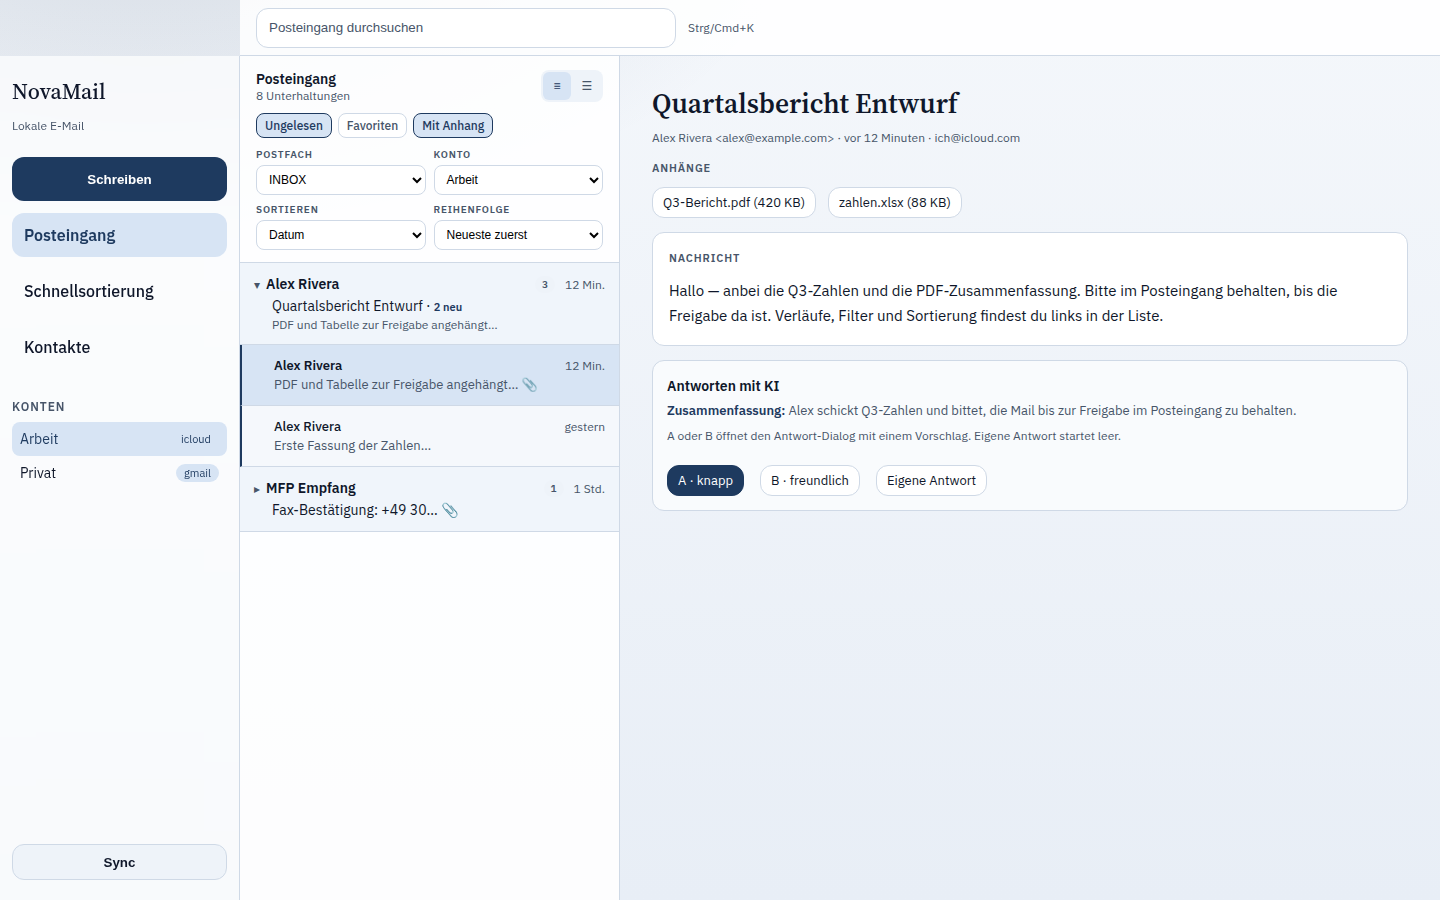
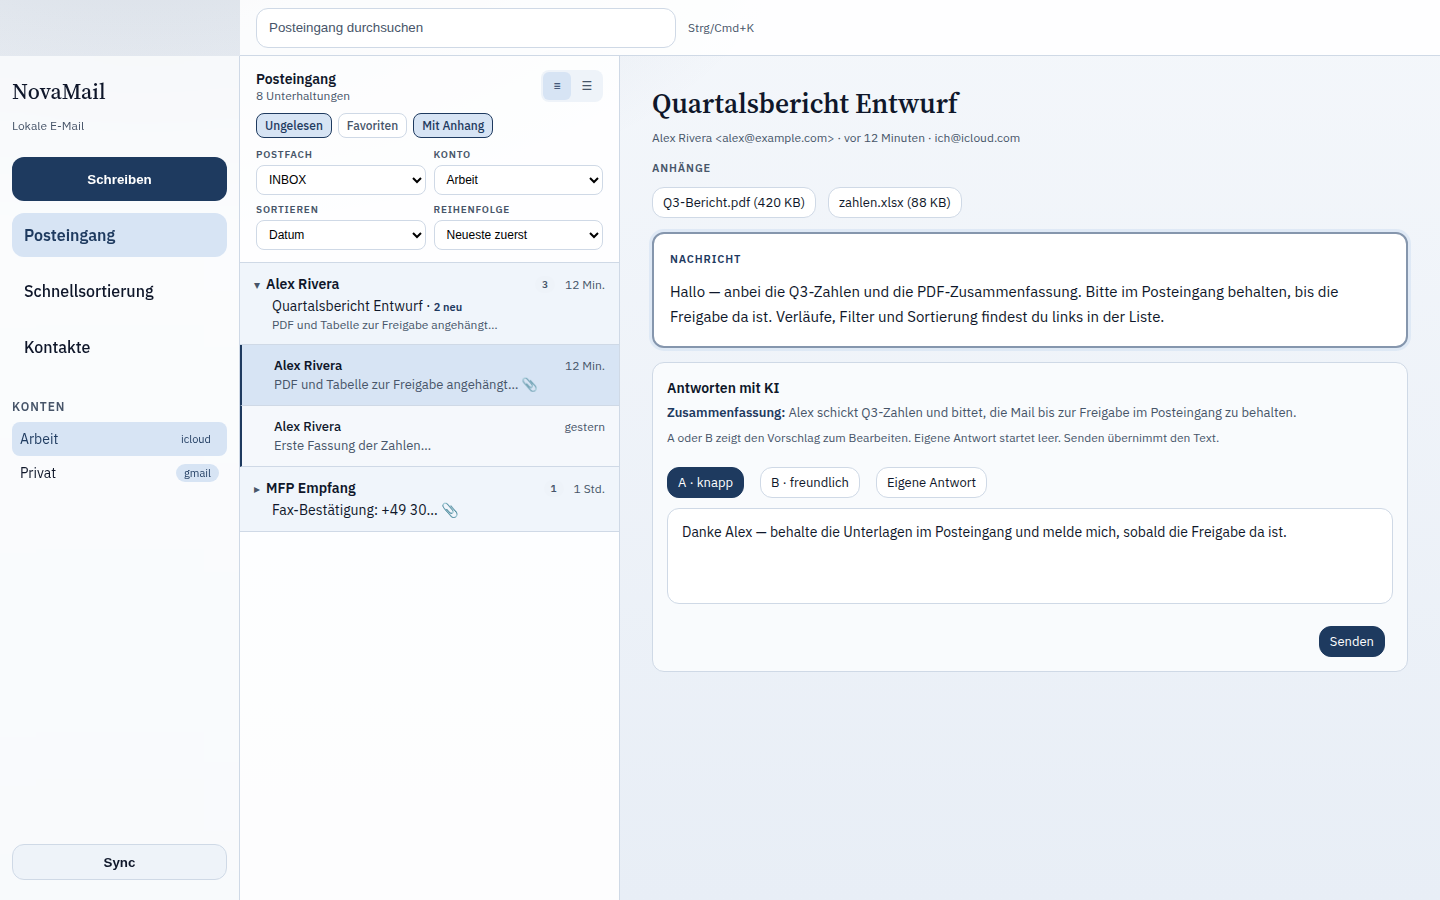
feat(ui): inline KI-Antwort bearbeiten und senden
Originalmail mit leichtem blauem Rahmen; Variante A als Default,
B wechselt den Text im editierbaren Feld, Senden verschickt direkt.

Changed region(s): [[0.4688, 0.28, 0.9688, 0.4978], [0.4688, 0.5289, 0.9062, 0.6222], [0.9062, 0.6844, 0.9688, 0.7467]]

diff --git a/apps/desktop/src/features/mail/ReadingPane.tsx b/apps/desktop/src/features/mail/ReadingPane.tsx
@@ -1,4 +1,4 @@
-import { useEffect, useState } from "react";
+import { useEffect, useRef, useState } from "react";
 import { open as openPath } from "@tauri-apps/plugin-shell";
 import { Reply, Star, Forward, Sparkles, Paperclip } from "lucide-react";
 import { Button, EmptyState, IconButton } from "@novamail/ui";
@@ -9,12 +9,14 @@ import { useT } from "@/shared/i18n/useT";
 import { displayName, formatRelative } from "@/shared/lib/format";
 import { useUiStore } from "@/shared/store/uiStore";
 
+type ReplyVariant = "a" | "b" | "own";
+
 interface ReadingPaneProps {
   message?: MessageDetailDto | null;
   onReply: () => void;
   onForward?: () => void;
   onToggleStar: () => void;
-  onUseSuggestedReply?: (suggestion: string) => void;
+  onReplySent?: () => void;
 }
 
 export function ReadingPane({
@@ -22,20 +24,26 @@ export function ReadingPane({
   onReply,
   onForward,
   onToggleStar,
-  onUseSuggestedReply,
+  onReplySent,
 }: ReadingPaneProps) {
   const t = useT();
   const locale = useUiStore((s) => s.locale);
   const [summary, setSummary] = useState<string | null>(null);
   const [variantA, setVariantA] = useState<string | null>(null);
   const [variantB, setVariantB] = useState<string | null>(null);
+  const [activeVariant, setActiveVariant] = useState<ReplyVariant>("a");
+  const [draft, setDraft] = useState("");
   const [aiBusy, setAiBusy] = useState(false);
+  const [sendBusy, setSendBusy] = useState(false);
   const [aiError, setAiError] = useState<string | null>(null);
+  const draftRef = useRef<HTMLTextAreaElement>(null);
 
   useEffect(() => {
     setSummary(null);
     setVariantA(null);
     setVariantB(null);
+    setActiveVariant("a");
+    setDraft("");
     setAiError(null);
     const id = message?.summary.id;
     if (!id) return;
@@ -45,8 +53,14 @@ export function ReadingPane({
       .then((insights) => {
         if (cancelled) return;
         if (insights.summary) setSummary(insights.summary);
-        setVariantA(insights.replyA ?? insights.replySuggestion ?? null);
-        setVariantB(insights.replyB ?? null);
+        const a = insights.replyA ?? insights.replySuggestion ?? null;
+        const b = insights.replyB ?? null;
+        setVariantA(a);
+        setVariantB(b);
+        if (a) {
+          setActiveVariant("a");
+          setDraft(a);
+        }
       })
       .catch(() => undefined);
     return () => {
@@ -105,23 +119,55 @@ export function ReadingPane({
     }
   }
 
-  async function openVariant(which: "a" | "b") {
+  async function selectVariant(which: "a" | "b") {
     const variants = await ensureVariants();
     if (!variants) return;
-    const text = which === "a" ? variants.a : variants.b;
-    if (onUseSuggestedReply) {
-      onUseSuggestedReply(text);
-      return;
-    }
-    onReply();
+    setActiveVariant(which);
+    setDraft(which === "a" ? variants.a : variants.b);
+    requestAnimationFrame(() => draftRef.current?.focus());
   }
 
-  function openOwnReply() {
-    if (onUseSuggestedReply) {
-      onUseSuggestedReply("");
+  function selectOwn() {
+    setActiveVariant("own");
+    setDraft("");
+    requestAnimationFrame(() => draftRef.current?.focus());
+  }
+
+  async function handleSendReply() {
+    const text = draft.trim();
+    if (!text) {
+      setAiError(t("replyDraftEmpty"));
       return;
     }
-    onReply();
+    setSendBusy(true);
+    setAiError(null);
+    try {
+      const subject = current.summary.subject.startsWith("Re:")
+        ? current.summary.subject
+        : `Re: ${current.summary.subject || t("noSubject")}`;
+      await api.messagesSend({
+        accountId: current.summary.accountId,
+        to: [{ email: current.summary.from.email, name: current.summary.from.name }],
+        cc: [],
+        bcc: [],
+        subject,
+        bodyText: text,
+        bodyHtml: null,
+        inReplyTo: current.messageId ?? null,
+        references: [
+          ...current.references,
+          current.messageId ?? "",
+        ].filter(Boolean),
+        attachments: [],
+      });
+      onReplySent?.();
+      if (activeVariant === "a") setVariantA(text);
+      if (activeVariant === "b") setVariantB(text);
+    } catch (error) {
+      setAiError((error as AppError).message || t("sendFailed"));
+    } finally {
+      setSendBusy(false);
+    }
   }
 
   async function openAttachment(id: string) {
@@ -153,7 +199,7 @@ export function ReadingPane({
                 }
               />
             </IconButton>
-            <IconButton label={t("reply")} onClick={openOwnReply}>
+            <IconButton label={t("reply")} onClick={onReply}>
               <Reply />
             </IconButton>
             <IconButton label={t("forward")} onClick={onForward}>
@@ -206,9 +252,9 @@ export function ReadingPane({
 
         <section
           aria-label={t("messageBody")}
-          className="rounded-[var(--nova-radius-md)] border border-[var(--nova-border)] bg-[var(--nova-surface)] px-5 py-5 shadow-[0_1px_0_color-mix(in_srgb,var(--nova-ink)_5%,transparent)]"
+          className="rounded-[var(--nova-radius-md)] border-2 border-[color-mix(in_srgb,var(--nova-accent)_42%,var(--nova-border))] bg-[var(--nova-surface)] px-5 py-5 shadow-[0_0_0_3px_color-mix(in_srgb,var(--nova-accent-soft)_70%,transparent)]"
         >
-          <p className="mb-3 text-xs font-semibold uppercase tracking-wide text-[var(--nova-ink-muted)]">
+          <p className="mb-3 text-xs font-semibold uppercase tracking-wide text-[var(--nova-accent)]">
             {t("messageBody")}
           </p>
           {current.bodyHtml ? (
@@ -251,31 +297,53 @@ export function ReadingPane({
           <p className="mb-3 text-xs text-[var(--nova-ink-muted)]">
             {t("replyAssistSimpleHint")}
           </p>
-          <div className="flex flex-wrap gap-2">
+          <div className="mb-3 flex flex-wrap gap-2">
             <Button
               type="button"
               size="sm"
-              disabled={aiBusy}
-              onClick={() => void openVariant("a")}
+              variant={activeVariant === "a" ? "primary" : "secondary"}
+              disabled={aiBusy || sendBusy}
+              onClick={() => void selectVariant("a")}
             >
               {t("replyVariantAShort")}
             </Button>
             <Button
               type="button"
               size="sm"
-              variant="secondary"
-              disabled={aiBusy}
-              onClick={() => void openVariant("b")}
+              variant={activeVariant === "b" ? "primary" : "secondary"}
+              disabled={aiBusy || sendBusy}
+              onClick={() => void selectVariant("b")}
             >
               {t("replyVariantBShort")}
             </Button>
             <Button
               type="button"
               size="sm"
-              variant="ghost"
-              onClick={openOwnReply}
+              variant={activeVariant === "own" ? "primary" : "ghost"}
+              disabled={aiBusy || sendBusy}
+              onClick={selectOwn}
             >
               {t("replyOwn")}
+            </Button>
+          </div>
+          <label className="grid gap-1.5">
+            <span className="sr-only">{t("replyDraftPlaceholder")}</span>
+            <textarea
+              ref={draftRef}
+              value={draft}
+              onChange={(e) => setDraft(e.target.value)}
+              placeholder={t("replyDraftPlaceholder")}
+              rows={6}
+              className="w-full resize-y rounded-[var(--nova-radius-md)] border border-[var(--nova-border)] bg-[var(--nova-surface)] px-3 py-2.5 text-[15px] leading-6 text-[var(--nova-ink)] outline-none focus:border-[var(--nova-accent)] focus:ring-2 focus:ring-[color-mix(in_srgb,var(--nova-accent)_25%,transparent)]"
+            />
+          </label>
+          <div className="mt-3 flex justify-end">
+            <Button
+              type="button"
+              disabled={aiBusy || sendBusy || !draft.trim()}
+              onClick={() => void handleSendReply()}
+            >
+              {sendBusy ? t("working") : t("send")}
             </Button>
           </div>
         </section>

diff --git a/docs/screenshots/preview.html b/docs/screenshots/preview.html
@@ -369,8 +369,8 @@
             <span class="chip">Q3-Bericht.pdf (420 KB)</span>
             <span class="chip">zahlen.xlsx (88 KB)</span>
           </div>
-          <div class="snippet-box" style="margin-top:14px; background:var(--nova-surface)">
-            <div class="muted" style="font-size:11px; text-transform:uppercase; letter-spacing:.08em; font-weight:600">Nachricht</div>
+          <div class="snippet-box" style="margin-top:14px; background:var(--nova-surface); border:2px solid color-mix(in srgb, var(--nova-accent) 42%, var(--nova-border)); box-shadow:0 0 0 3px color-mix(in srgb, var(--nova-accent-soft) 70%, transparent)">
+            <div style="font-size:11px; text-transform:uppercase; letter-spacing:.08em; font-weight:600; color:var(--nova-accent)">Nachricht</div>
             <p style="margin:10px 0 0; max-width:720px; line-height:1.7; font-size:15px">
               Hallo — anbei die Q3-Zahlen und die PDF-Zusammenfassung. Bitte im Posteingang
               behalten, bis die Freigabe da ist. Verläufe, Filter und Sortierung findest du links in der Liste.
@@ -383,12 +383,18 @@
               Alex schickt Q3-Zahlen und bittet, die Mail bis zur Freigabe im Posteingang zu behalten.
             </p>
             <p class="muted" style="margin:0 0 10px;font-size:12px">
-              A oder B öffnet den Antwort-Dialog mit einem Vorschlag. Eigene Antwort startet leer.
+              A oder B zeigt den Vorschlag zum Bearbeiten. Eigene Antwort startet leer. Senden übernimmt den Text.
             </p>
-            <div style="display:flex;flex-wrap:wrap;gap:8px">
+            <div style="display:flex;flex-wrap:wrap;gap:8px;margin-bottom:10px">
               <span class="chip" style="background:var(--nova-accent);color:#fff;border-color:var(--nova-accent)">A · knapp</span>
               <span class="chip">B · freundlich</span>
               <span class="chip">Eigene Antwort</span>
+            </div>
+            <div style="border:1px solid var(--nova-border); border-radius:var(--nova-radius-md); background:var(--nova-surface); padding:12px 14px; font-size:14px; line-height:1.6; min-height:96px">
+              Danke Alex — behalte die Unterlagen im Posteingang und melde mich, sobald die Freigabe da ist.
+            </div>
+            <div style="margin-top:10px; display:flex; justify-content:flex-end">
+              <span class="chip" style="background:var(--nova-accent);color:#fff;border-color:var(--nova-accent)">Senden</span>
             </div>
           </div>
         </article>

diff --git a/apps/desktop/src/app/AppShell.tsx b/apps/desktop/src/app/AppShell.tsx
@@ -450,6 +450,7 @@ export function AppShell() {
               <ReadingPane
                 message={messageQuery.data}
                 onReply={() => {
+                  setComposerBody("");
                   if (messageQuery.data) {
                     setReplyTo(messageQuery.data);
                     setComposerSubject(undefined);
@@ -460,13 +461,8 @@ export function AppShell() {
                   void handleForward();
                 }}
                 onToggleStar={handleToggleStar}
-                onUseSuggestedReply={(suggestion) => {
-                  setComposerBody(suggestion);
-                  if (messageQuery.data) {
-                    setReplyTo(messageQuery.data);
-                    setComposerSubject(undefined);
-                    setComposerOpen(true);
-                  }
+                onReplySent={() => {
+                  void refresh();
                 }}
               />
             </div>

diff --git a/apps/desktop/src/shared/i18n/de.ts b/apps/desktop/src/shared/i18n/de.ts
@@ -55,7 +55,8 @@ export const de = {
   replyAssistTitle: "Antworten mit KI",
   replyAssistHint: "Variante wählen, bearbeiten, Fakten ergänzen",
   replyAssistSimpleHint:
-    "A oder B öffnet den Antwort-Dialog mit einem Vorschlag. Eigene Antwort startet leer.",
+    "A oder B zeigt den Vorschlag zum Bearbeiten. Eigene Antwort startet leer. Senden übernimmt den Text.",
+  replyDraftEmpty: "Bitte zuerst eine Antwort eingeben.",
   replyVariantA: "Variante A · knapp",
   replyVariantB: "Variante B · freundlich",
   replyVariantAShort: "A · knapp",

diff --git a/apps/desktop/src/shared/i18n/en.ts b/apps/desktop/src/shared/i18n/en.ts
@@ -57,7 +57,8 @@ export const en: Translations = {
   replyAssistTitle: "Reply with AI",
   replyAssistHint: "Pick a variant, edit it, add facts",
   replyAssistSimpleHint:
-    "A or B opens the reply dialog with a suggestion. Own reply starts blank.",
+    "A or B shows the suggestion for editing. Own reply starts blank. Send uses the text as written.",
+  replyDraftEmpty: "Please enter a reply first.",
   replyVariantA: "Variant A · concise",
   replyVariantB: "Variant B · warmer",
   replyVariantAShort: "A · concise",
